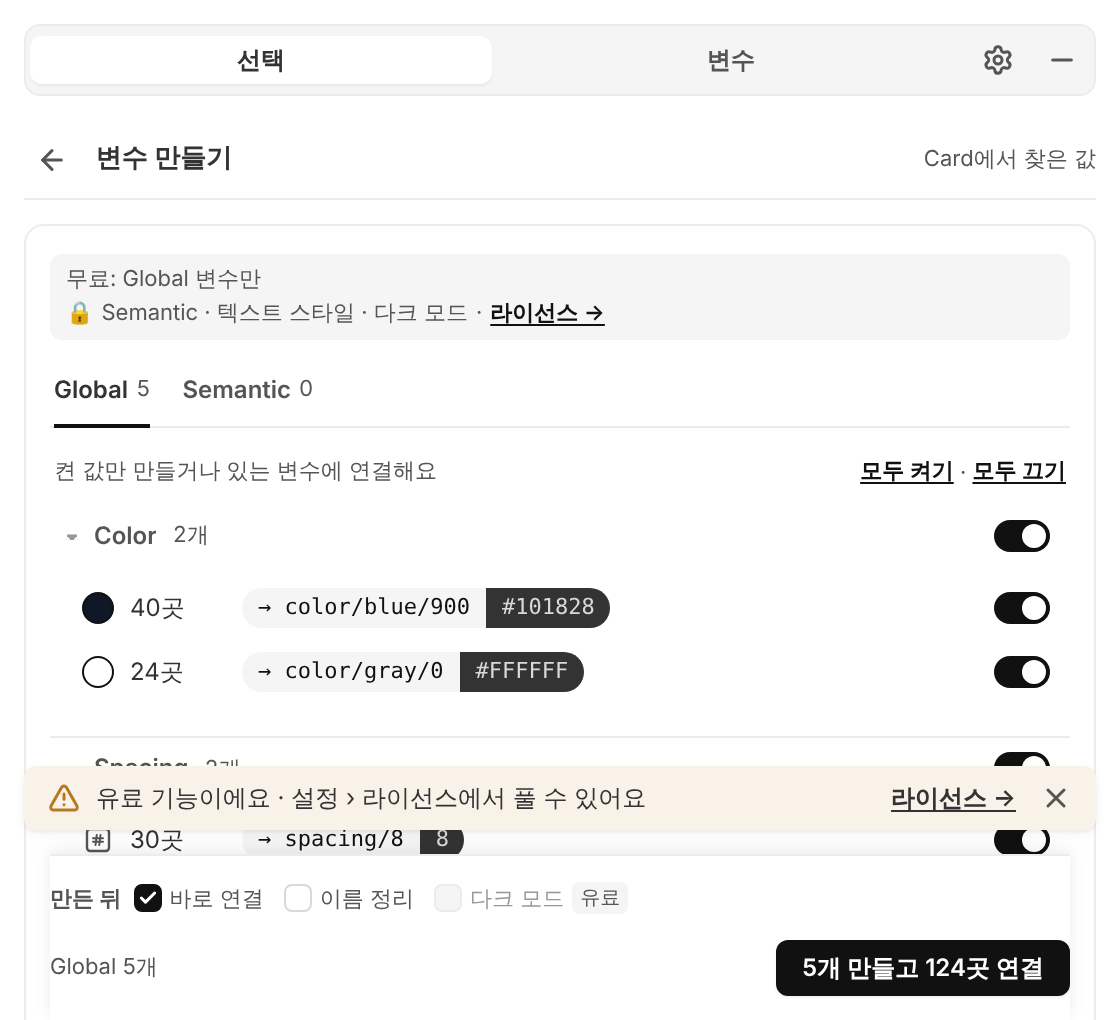
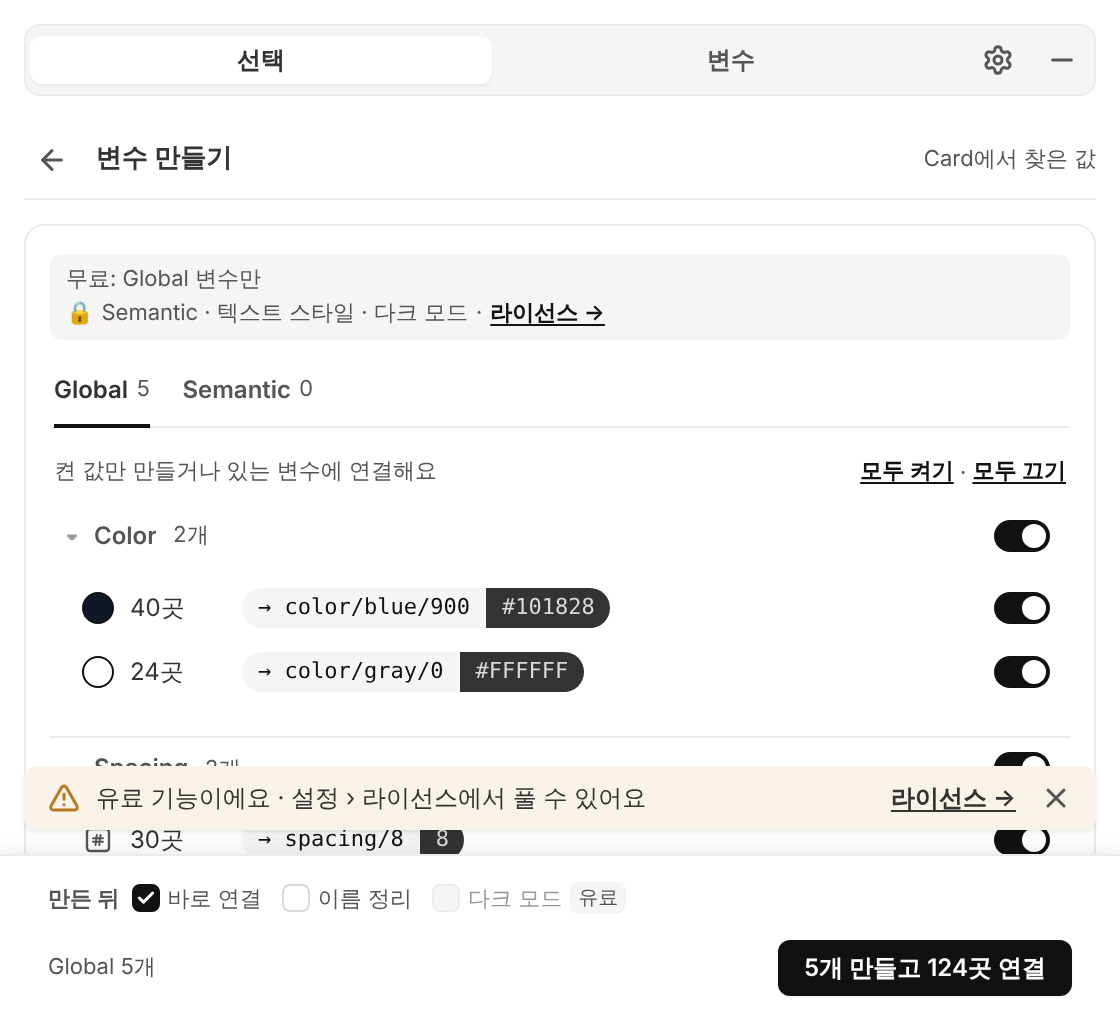
DS-3b 실기 고침 — 하위 화면 아래 고정 줄을 창 바닥 · 가로 전체에 고정(S3-D10)
- 카드 안 sticky라 좌우가 카드 안쪽에서 끊기고 줄 밑에 카드 · 본문 여백이 남던 것 → position: fixed(0–560 · 바닥 0), 본문 아래 여백 = 줄 높이(--foot-h)
- 짧은 화면도 줄은 창 바닥 · Toast는 늘 줄 위 12 · 비우는 자리는 본문 아래 · 사이드바만(줄 위 여백 없앰)
- 고정 요소는 offsetParent가 null — 보이는 줄 판정을 크기로
- 명세 §4.1b "자리" · S3-D10 · design-system §5 · §2.3, verify 765 · 4검사 통과, 스크린샷 다시

Claude-Session: https://claude.ai/code/session_01PEuwdZ56a69HwcFZB3F6pa

diff --git a/dist/ui.html b/dist/ui.html
@@ -635,7 +635,7 @@ button.ds-tag { border: 0; cursor: pointer; }
     [hidden] { display: none !important; }
     body {
       font: var(--font-weight-regular) var(--font-size-md)/var(--line-height-normal) var(--font-family-sans);
-      margin: 0; padding: var(--space-3) var(--space-3) calc(var(--space-3) + var(--toast-space-body, 0px)); /* 아래 여백 + Toast가 떠 있는 동안 비우는 높이(ia-v4 §4.1b "자리") */
+      margin: 0; padding: var(--space-3) var(--space-3) calc(var(--space-3) + var(--foot-h, 0px) + var(--toast-space-body, 0px)); /* 아래 여백 + 보이는 아래 고정 줄 높이 + Toast가 떠 있는 동안 비우는 높이(ia-v4 §4.1b "자리") */
       color: var(--color-text-primary); background: var(--color-background-primary);
       -webkit-font-smoothing: antialiased;
       overflow-x: hidden; /* 툴팁 등이 가로 스크롤을 만들지 않게 */
@@ -775,7 +775,7 @@ button.ds-tag { border: 0; cursor: pointer; }
     .sub-right-tail { flex: 0 0 auto; white-space: pre; }
     .var-empty { padding: var(--space-10) var(--space-2); text-align: center; }
     /* IA v4 §4.2 연결 화면 */
-    .sub-foot { position: sticky; bottom: 0; display: flex; align-items: center; gap: var(--space-2); min-height: 52px; background: var(--color-background-primary); border-top: 1px solid var(--color-border-default); margin-top: calc(var(--space-2) + var(--toast-space-bar, 0px)); }
+    .sub-foot { display: flex; align-items: center; gap: var(--space-2); min-height: 52px; background: var(--color-background-primary); border-top: 1px solid var(--color-border-default); }
 
     /* ── 단계 레일 — 만들기 4단계 · 적용 3단계. 한 화면에 한 단계만 보인다. ── */
     .steps { display: grid; gap: var(--space-1); margin: 0 0 var(--space-3); }
@@ -1233,7 +1233,10 @@ button.ds-tag { border: 0; cursor: pointer; }
     .mk-info { display: inline-flex; align-items: center; justify-content: center; width: 14px; height: 14px; min-height: 14px; padding: 0; border-radius: var(--radius-full); border: 1px solid var(--color-border-strong); background: none; font: var(--font-weight-semibold) var(--font-size-xs)/var(--line-height-xs) var(--font-family-sans); color: var(--color-text-secondary); cursor: help; flex: 0 0 auto; }
     .mk-info:hover:not(:disabled):not([aria-disabled="true"]) { background: none; color: var(--color-text-primary); }
     .make-tabnote { font-size: var(--font-size-sm); color: var(--color-text-secondary); padding: var(--space-2) var(--space-0-5); border-bottom: 1px solid var(--color-border-default); }
-    .make-foot { position: sticky; bottom: 0; background: var(--color-background-primary); border-top: 1px solid var(--color-border-default); margin-top: calc(var(--space-2) + var(--toast-space-bar, 0px)); padding: var(--space-2) 0 var(--space-2); z-index: var(--z-sticky); }
+    .make-foot { background: var(--color-background-primary); border-top: 1px solid var(--color-border-default); padding-top: var(--space-2); padding-bottom: var(--space-2); z-index: var(--z-sticky); }
+    /* 아래 고정 줄은 창 바닥 · 가로 전체(design-system §5 Bottom Action Bar · ia-v4 §4.1b S3-D10 — DS-3b 실기 뒤): 카드 안에 있어도 창에 고정한다.
+       내용이 짧아도 줄은 창 바닥에 있고, 본문 아래에는 줄 높이(--foot-h)만큼 여백을 둔다. 글은 카드 안 글과 같은 세로선에서 시작한다. */
+    .sub-foot, .make-foot { position: fixed; left: 0; right: 0; bottom: 0; margin: 0; padding-left: var(--space-6); padding-right: var(--space-6); z-index: var(--z-sticky); }
     /* 아래 고정 줄 — 내용이 밑에 깔릴 때만 옅은 그림자(DS-3a S3-D10, 상태는 속성으로) */
     .sub-foot[data-overlapped], .make-foot[data-overlapped] { box-shadow: var(--elevation-sticky); }
     .make-opts { display: flex; align-items: center; gap: var(--space-0-5); height: var(--size-compact); font-size: var(--font-size-sm); white-space: nowrap; overflow: hidden; }
@@ -9003,7 +9006,7 @@ button.ds-tag { border: 0; cursor: pointer; }
   function visibleFoot() {
     for (const id of ["bindFoot", "renameFoot", "makeFoot"]) {
       const f = $(id);
-      if (f.offsetParent && f.getClientRects().length) return f;
+      if (f.getClientRects().length && f.getBoundingClientRect().height > 0) return f;
     }
     return null;
   }
@@ -9012,12 +9015,10 @@ button.ds-tag { border: 0; cursor: pointer; }
     var _a3;
     const st = document.documentElement.style;
     const root = (_a3 = currentToast()) == null ? void 0 : _a3.root;
-    for (const v of ["--toast-space-body", "--toast-space-bar", "--toast-space-side"]) st.setProperty(v, "0px");
+    for (const v of ["--toast-space-body", "--toast-space-side"]) st.setProperty(v, "0px");
     if (root && root.isConnected) {
       const h = root.offsetHeight + cssPx("--space-3");
-      const foot = visibleFoot();
-      if (!foot) st.setProperty("--toast-space-body", `${h}px`);
-      else if (document.documentElement.scrollHeight > window.innerHeight) st.setProperty("--toast-space-bar", `${h}px`);
+      st.setProperty("--toast-space-body", `${h}px`);
       st.setProperty("--toast-space-side", `${h}px`);
     }
     placeToast();
@@ -9591,10 +9592,13 @@ button.ds-tag { border: 0; cursor: pointer; }
   $("btnSubBack").addEventListener("click", subBack);
   function syncFootShadow() {
     const doc = document.documentElement;
+    const foot = visibleFoot();
+    const fh = `${foot ? Math.round(foot.getBoundingClientRect().height) : 0}px`;
+    if (doc.style.getPropertyValue("--foot-h") !== fh) doc.style.setProperty("--foot-h", fh);
     const over = window.scrollY + window.innerHeight < doc.scrollHeight - 1;
     for (const id of ["bindFoot", "renameFoot", "makeFoot"]) {
       const el2 = $(id);
-      el2.toggleAttribute("data-overlapped", over && !!el2.offsetParent);
+      el2.toggleAttribute("data-overlapped", over && el2 === foot);
     }
   }
   window.addEventListener("scroll", syncFootShadow, { passive: true });

diff --git a/src/ui.html b/src/ui.html
@@ -17,7 +17,7 @@
     [hidden] { display: none !important; }
     body {
       font: var(--font-weight-regular) var(--font-size-md)/var(--line-height-normal) var(--font-family-sans);
-      margin: 0; padding: var(--space-3) var(--space-3) calc(var(--space-3) + var(--toast-space-body, 0px)); /* 아래 여백 + Toast가 떠 있는 동안 비우는 높이(ia-v4 §4.1b "자리") */
+      margin: 0; padding: var(--space-3) var(--space-3) calc(var(--space-3) + var(--foot-h, 0px) + var(--toast-space-body, 0px)); /* 아래 여백 + 보이는 아래 고정 줄 높이 + Toast가 떠 있는 동안 비우는 높이(ia-v4 §4.1b "자리") */
       color: var(--color-text-primary); background: var(--color-background-primary);
       -webkit-font-smoothing: antialiased;
       overflow-x: hidden; /* 툴팁 등이 가로 스크롤을 만들지 않게 */
@@ -157,7 +157,7 @@
     .sub-right-tail { flex: 0 0 auto; white-space: pre; }
     .var-empty { padding: var(--space-10) var(--space-2); text-align: center; }
     /* IA v4 §4.2 연결 화면 */
-    .sub-foot { position: sticky; bottom: 0; display: flex; align-items: center; gap: var(--space-2); min-height: 52px; background: var(--color-background-primary); border-top: 1px solid var(--color-border-default); margin-top: calc(var(--space-2) + var(--toast-space-bar, 0px)); }
+    .sub-foot { display: flex; align-items: center; gap: var(--space-2); min-height: 52px; background: var(--color-background-primary); border-top: 1px solid var(--color-border-default); }
 
     /* ── 단계 레일 — 만들기 4단계 · 적용 3단계. 한 화면에 한 단계만 보인다. ── */
     .steps { display: grid; gap: var(--space-1); margin: 0 0 var(--space-3); }
@@ -615,7 +615,10 @@
     .mk-info { display: inline-flex; align-items: center; justify-content: center; width: 14px; height: 14px; min-height: 14px; padding: 0; border-radius: var(--radius-full); border: 1px solid var(--color-border-strong); background: none; font: var(--font-weight-semibold) var(--font-size-xs)/var(--line-height-xs) var(--font-family-sans); color: var(--color-text-secondary); cursor: help; flex: 0 0 auto; }
     .mk-info:hover:not(:disabled):not([aria-disabled="true"]) { background: none; color: var(--color-text-primary); }
     .make-tabnote { font-size: var(--font-size-sm); color: var(--color-text-secondary); padding: var(--space-2) var(--space-0-5); border-bottom: 1px solid var(--color-border-default); }
-    .make-foot { position: sticky; bottom: 0; background: var(--color-background-primary); border-top: 1px solid var(--color-border-default); margin-top: calc(var(--space-2) + var(--toast-space-bar, 0px)); padding: var(--space-2) 0 var(--space-2); z-index: var(--z-sticky); }
+    .make-foot { background: var(--color-background-primary); border-top: 1px solid var(--color-border-default); padding-top: var(--space-2); padding-bottom: var(--space-2); z-index: var(--z-sticky); }
+    /* 아래 고정 줄은 창 바닥 · 가로 전체(design-system §5 Bottom Action Bar · ia-v4 §4.1b S3-D10 — DS-3b 실기 뒤): 카드 안에 있어도 창에 고정한다.
+       내용이 짧아도 줄은 창 바닥에 있고, 본문 아래에는 줄 높이(--foot-h)만큼 여백을 둔다. 글은 카드 안 글과 같은 세로선에서 시작한다. */
+    .sub-foot, .make-foot { position: fixed; left: 0; right: 0; bottom: 0; margin: 0; padding-left: var(--space-6); padding-right: var(--space-6); z-index: var(--z-sticky); }
     /* 아래 고정 줄 — 내용이 밑에 깔릴 때만 옅은 그림자(DS-3a S3-D10, 상태는 속성으로) */
     .sub-foot[data-overlapped], .make-foot[data-overlapped] { box-shadow: var(--elevation-sticky); }
     .make-opts { display: flex; align-items: center; gap: var(--space-0-5); height: var(--size-compact); font-size: var(--font-size-sm); white-space: nowrap; overflow: hidden; }

diff --git a/src/ui.ts b/src/ui.ts
@@ -4217,7 +4217,7 @@ function notify(text: string, tone: NotifyTone, o: { action?: StatusAction; tip?
 }
 /** 지금 화면의 보이는 아래 고정 줄(연결 · 이름 정리 `.sub-foot` · 만들기 `.make-foot`). */
 function visibleFoot(): HTMLElement | null {
-  for (const id of ['bindFoot', 'renameFoot', 'makeFoot']) { const f = $(id); if (f.offsetParent && f.getClientRects().length) return f; }
+  for (const id of ['bindFoot', 'renameFoot', 'makeFoot']) { const f = $(id); if (f.getClientRects().length && f.getBoundingClientRect().height > 0) return f; } // 창에 고정된 줄은 offsetParent가 늘 null — 크기로 본다
   return null;
 }
 const cssPx = (name: string): number => parseFloat(getComputedStyle(document.documentElement).getPropertyValue(name)) || 0;
@@ -4225,12 +4225,11 @@ const cssPx = (name: string): number => parseFloat(getComputedStyle(document.doc
 function judgeToastSpace(): void {
   const st = document.documentElement.style;
   const root = currentToast()?.root;
-  for (const v of ['--toast-space-body', '--toast-space-bar', '--toast-space-side']) st.setProperty(v, '0px');
+  for (const v of ['--toast-space-body', '--toast-space-side']) st.setProperty(v, '0px');
   if (root && root.isConnected) {
+    // 아래 고정 줄은 창 바닥에 고정이라(S3-D10) 줄이 있어도 없어도 본문 아래 여백만 늘린다 — 줄은 움직이지 않는다.
     const h = root.offsetHeight + cssPx('--space-3');
-    const foot = visibleFoot();
-    if (!foot) st.setProperty('--toast-space-body', `${h}px`);
-    else if (document.documentElement.scrollHeight > window.innerHeight) st.setProperty('--toast-space-bar', `${h}px`); // 스크롤될 때만 — 짧은 화면은 줄을 움직이지 않는다
+    st.setProperty('--toast-space-body', `${h}px`);
     st.setProperty('--toast-space-side', `${h}px`);
   }
   placeToast();
@@ -4824,10 +4823,14 @@ $('btnSubBack').addEventListener('click', subBack);
 /** 하위 화면 아래 고정 줄(§4.1b S3-D10) — 그 아래로 내용이 깔릴 때만 data-overlapped(→ elevation-sticky). 스크롤 · 크기 바뀜 때 다시 정한다. */
 function syncFootShadow(): void {
   const doc = document.documentElement;
+  // 창 바닥에 고정된 줄의 높이만큼 본문 아래 여백(--foot-h) — 마지막 줄이 줄 밑에 숨지 않게.
+  const foot = visibleFoot();
+  const fh = `${foot ? Math.round(foot.getBoundingClientRect().height) : 0}px`;
+  if (doc.style.getPropertyValue('--foot-h') !== fh) doc.style.setProperty('--foot-h', fh);
   const over = window.scrollY + window.innerHeight < doc.scrollHeight - 1;
   for (const id of ['bindFoot', 'renameFoot', 'makeFoot']) {
     const el = $(id);
-    el.toggleAttribute('data-overlapped', over && !!el.offsetParent);
+    el.toggleAttribute('data-overlapped', over && el === foot);
   }
 }
 window.addEventListener('scroll', syncFootShadow, { passive: true });

diff --git a/docs/design-system.md b/docs/design-system.md
@@ -67,7 +67,8 @@
 | `--prog` | `ui.ts`(진행 표시) | 진행 비율(%) |
 | `--band-ic` | `ui.html`(안내 띠 규칙) | 띠 앞 아이콘 그림(data URI) |
 | `--tip-x` | `src/ui/components/tooltip.ts`(DS-2) | 툴팁 꼬리의 가로 위치(px) |
-| `--toast-bottom` · `--toast-space-body` · `--toast-space-bar` · `--toast-space-side` | `ui.ts`(Toast 자리 — DS-3b) | Toast 아래 띄움 · Toast가 떠 있는 동안 비우는 높이(본문 아래 · 아래 고정 줄 위 · 변수 탭 사이드바 — ia-v4 §4.1b "자리") |
+| `--toast-bottom` · `--toast-space-body` · `--toast-space-side` | `ui.ts`(Toast 자리 — DS-3b) | Toast 아래 띄움 · Toast가 떠 있는 동안 비우는 높이(본문 아래 · 변수 탭 사이드바 — ia-v4 §4.1b "자리") |
+| `--foot-h` | `ui.ts`(`syncFootShadow`) | 창 바닥에 고정된 아래 고정 줄의 높이 — 본문 아래 여백(ia-v4 §4.1b S3-D10) |
 
 ## 3. Design Tokens (최종 값)
 
@@ -301,7 +302,7 @@
 | **Content Section** | `.ds-section` — `.ds-section__title`(`text-heading-sm`) · `.ds-section__desc`(`text-body-sm` `color-text-secondary`) · 본문. 절 사이 `space-6`, 제목–본문 `space-2` | `space-2` · `space-6` | `.step` |
 | **Settings Section** | `.ds-settings` — `.ds-settings__row` 줄 목록: 라벨(왼쪽, `text-label` + 설명 `text-body-sm`) · 컨트롤(오른쪽). 줄 최소 높이 `size-control-md` + 위아래 `space-1`, 줄 사이 구분선 없음 | `text-label` | ⚙ 설정 화면 |
 | **Result Section** | `.ds-result` — `.ds-result__summary`(한 줄 요약, `text-body`) + List Item 목록 + 빈 · 오류 상태 자리(§6.5 State) | `space-2` | `.results` · 트리 |
-| **Bottom Action Bar** | `.ds-actionbar` — 위 1px 선, 바탕 `color-background-primary`. `.ds-actionbar__start`(Ghost: 취소 · 뒤로) · `.ds-actionbar__end`(오른쪽 끝 Primary 하나, 그 왼쪽 Secondary). PluginLayout의 flex 자식이라 본문을 가리지 않는다(본문만 스크롤 — 아래 여백 따로 두지 않음) | `size-action-bar` · 버튼 `size-control-md` · 사이 `space-2` · 좌우 `space-3` | `.sub-foot` · `.make-foot`(DS-3a 뒤 — 선택 탭 첫 화면의 `.sel-tools`는 아래 고정 줄이 아니라 카드 안 할 일 줄이 된다, ia-v4 §4.1b S3-D1). 내용이 밑에 깔릴 때만 `elevation-sticky`(S3-D10) |
+| **Bottom Action Bar** | `.ds-actionbar` — 위 1px 선, 바탕 `color-background-primary`. `.ds-actionbar__start`(Ghost: 취소 · 뒤로) · `.ds-actionbar__end`(오른쪽 끝 Primary 하나, 그 왼쪽 Secondary). 창 바닥 · 가로 전체에 고정(지금 코드 — 카드 안에 있어도 `position: fixed`, 본문 아래 여백 = 줄 높이 `--foot-h`, ia-v4 §4.1b S3-D10 · 2026-11-27). PluginLayout으로 옮기면 flex 자식이 되어 아래 여백이 필요 없다 | `size-action-bar` · 버튼 `size-control-md` · 사이 `space-2` · 좌우 `space-3` | `.sub-foot` · `.make-foot`(DS-3a 뒤 — 선택 탭 첫 화면의 `.sel-tools`는 아래 고정 줄이 아니라 카드 안 할 일 줄이 된다, ia-v4 §4.1b S3-D1). 내용이 밑에 깔릴 때만 `elevation-sticky`(S3-D10) |
 | **Modal Layout** | Modal(§6.5)의 짜임 — `.ds-modal__header`(제목 `text-heading` + 닫기 Icon Button sm) · `.ds-modal__body`(스크롤) · `.ds-modal__footer`(오른쪽 [취소(Ghost)] [확인(Primary 또는 Destructive)], 위 1px 선) | `size-modal-*` · `radius-large` · `elevation-3` · 안쪽 `space-4` · 머리 · 바닥 위아래 `space-3` | `.modal` |
 
 PluginLayout은 그릇이고, 요청 목록의 레이아웃 8종(Plugin Header ~ Modal Layout)을 담는다(그래서 표는 9행).
